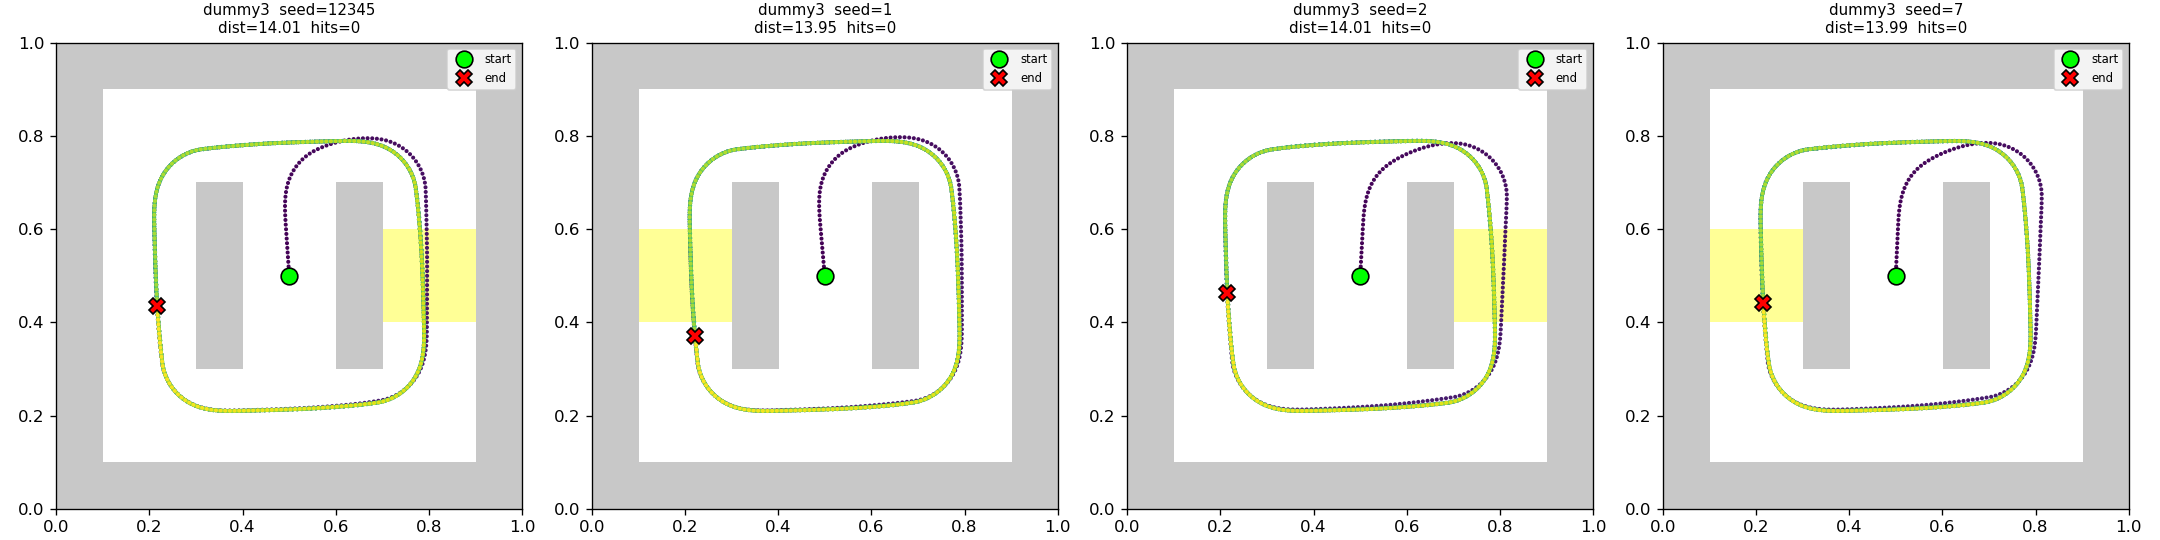
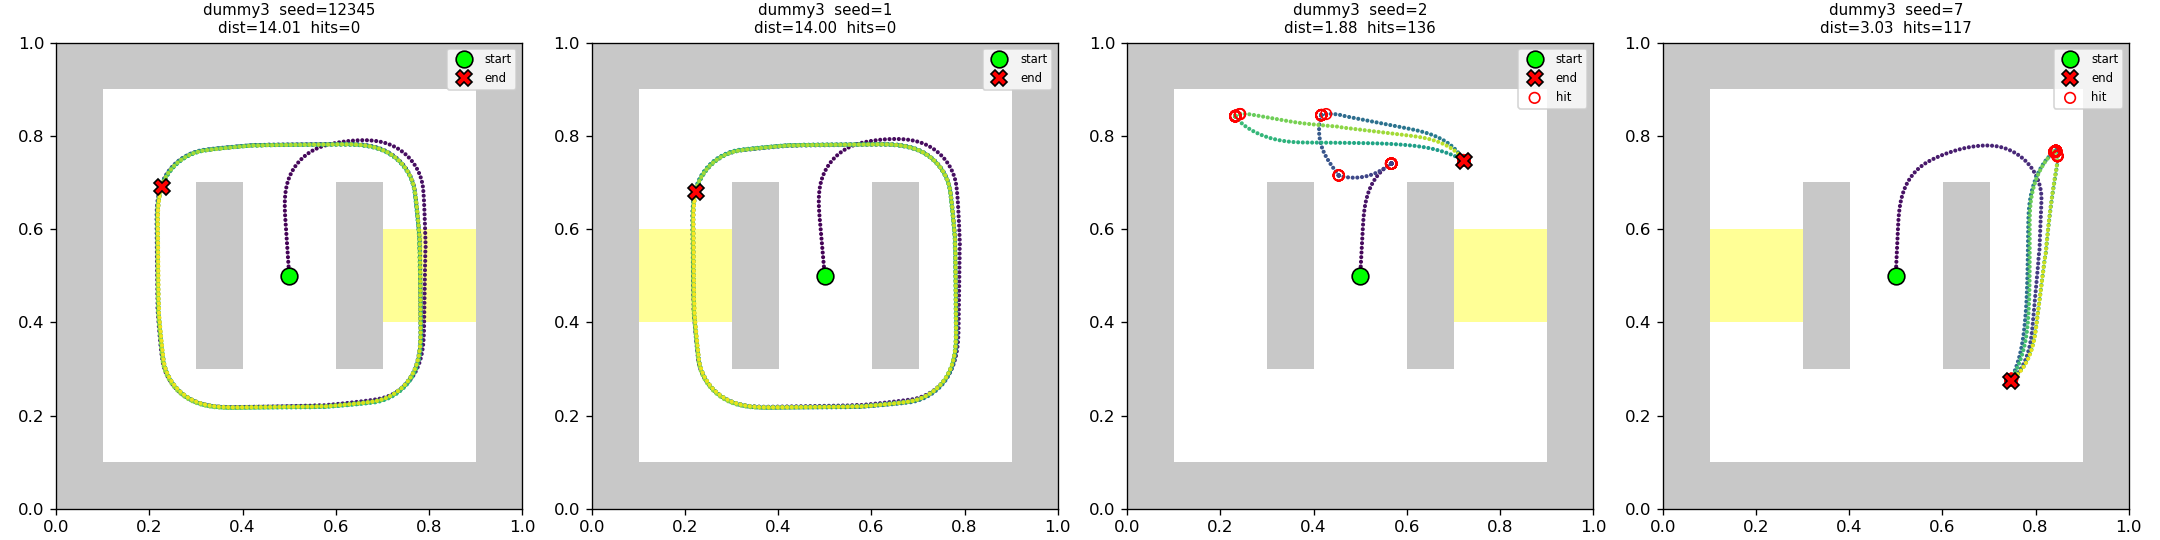
Add visualization helper

diff --git a/braincraft/env1_trajectory_variable_plot.py b/braincraft/env1_trajectory_variable_plot.py
@@ -1,0 +1,234 @@
+"""Visualize an env1 player trajectory together with a per-step variable.
+
+Like env1_trajectory_plot.py, but in addition to drawing the bot's path on
+the world map it records the value of a user-specified expression at every
+step and plots it as a time series next to the map. The trajectory dots are
+also recolored by that variable, so spatial and temporal structure can be
+read together.
+
+Examples
+--------
+    python env1_trajectory_variable_plot.py
+    python env1_trajectory_variable_plot.py --var "prox[11]"
+    python env1_trajectory_variable_plot.py --var "X[8,0]" --var-label is_rewarded
+    python env1_trajectory_variable_plot.py --models dummy3 --seeds 12345 1
+"""
+
+import argparse
+import importlib
+import inspect
+
+import numpy as np
+if not hasattr(np, "atan2"):
+    np.atan2 = np.arctan2  # compat shim for older NumPy used by camera.py
+import matplotlib.pyplot as plt
+
+from bot import Bot
+from environment_1 import Environment
+
+from env1_trajectory_plot import PLAYERS, load_model
+
+
+DEFAULT_MODELS = ["dummy3"]
+DEFAULT_SEEDS = [12345, 1, 2, 7]
+DEFAULT_VAR = "prox[63]-prox[0]"  # prox[left_side_idx] in dummy3
+
+
+def run_trajectory_with_var(player_key, var_expr, seed=12345, max_steps=None):
+    """Replay the player and record `var_expr` each step.
+
+    The expression is eval'd in a namespace exposing:
+        prox  -- 1 - bot.camera.depths  (length n)
+        I     -- raw input vector ((n+3, 1))
+        X     -- reservoir state ((N, 1))
+        O     -- output vector
+        bot   -- the Bot instance
+        np    -- numpy
+    """
+    np.random.seed(seed)
+    environment = Environment()
+    bot = Bot()
+
+    W_in, W, W_out, warmup, leak, f, g = load_model(player_key)
+
+    n = bot.camera.resolution
+    I = np.zeros((n + 3, 1))
+    X = np.zeros((W.shape[0], 1))
+
+    bot.camera.update(bot.position, bot.direction,
+                      environment.world, environment.colormap)
+
+    code = compile(var_expr, "<var>", "eval")
+
+    def eval_var(O):
+        ns = {
+            "prox": I[:n, 0],
+            "I": I,
+            "X": X,
+            "O": O,
+            "bot": bot,
+            "np": np,
+        }
+        return float(np.asarray(eval(code, ns)).reshape(-1)[0])
+
+    positions = [bot.position]
+    var_values = []
+    hits_steps = []
+    iteration = 0
+    distance = 0.0
+
+    while bot.energy > 0:
+        I[:n, 0] = 1 - bot.camera.depths
+        I[n:, 0] = bot.hit, bot.energy, 1.0
+        X = (1 - leak) * X + leak * f(np.dot(W_in, I) + np.dot(W, X))
+        O = np.dot(W_out, g(X))
+
+        var_values.append(eval_var(O))
+
+        if iteration > warmup:
+            p = bot.position
+            bot.forward(O, environment, debug=False)
+            distance += np.linalg.norm(np.array(p) - np.array(bot.position))
+            if bot.hit:
+                hits_steps.append(len(positions))
+        positions.append(bot.position)
+        iteration += 1
+        if max_steps is not None and iteration >= max_steps:
+            break
+
+    # positions has one more entry than var_values (initial pose). Align by
+    # dropping the initial pose for the per-step coloring/series.
+    return {
+        "positions": np.array(positions),
+        "var": np.array(var_values),
+        "hits": np.array(hits_steps, dtype=int),
+        "distance": distance,
+        "world_rgb": environment.world_rgb,
+        "world": environment.world,
+    }
+
+
+def plot_trajectory_with_var(traj, var_label, ax_map, ax_ts, title=None):
+    world = traj["world"]
+    extent = [0, world.shape[1] / max(world.shape),
+              0, world.shape[0] / max(world.shape)]
+    ax_map.imshow(traj["world_rgb"], origin="lower", extent=extent,
+                  interpolation="nearest")
+
+    P = traj["positions"]
+    V = traj["var"]
+    # Color the per-step positions by the variable. Skip the initial pose so
+    # P_step and V align.
+    P_step = P[1:1 + len(V)]
+    sc = ax_map.scatter(P_step[:, 0], P_step[:, 1], c=V, cmap="coolwarm",
+                        s=4, zorder=10)
+    ax_map.plot(P[0, 0], P[0, 1], "o", color="lime", markersize=10,
+                markeredgecolor="black", label="start", zorder=20)
+    ax_map.plot(P[-1, 0], P[-1, 1], "X", color="red", markersize=10,
+                markeredgecolor="black", label="end", zorder=20)
+    if len(traj["hits"]):
+        H = P[traj["hits"]]
+        ax_map.scatter(H[:, 0], H[:, 1], facecolor="none", edgecolor="red",
+                       s=40, linewidth=1.0, label="hit", zorder=15)
+    ax_map.set_xlim(0, 1)
+    ax_map.set_ylim(0, 1)
+    ax_map.set_aspect("equal")
+    ax_map.legend(loc="upper right", fontsize=7)
+    if title:
+        ax_map.set_title(title, fontsize=9)
+
+    cbar = plt.colorbar(sc, ax=ax_map, fraction=0.046, pad=0.04)
+    cbar.set_label(var_label, fontsize=8)
+    cbar.ax.tick_params(labelsize=7)
+
+    # Time series
+    ax_ts.plot(V, color="C0", linewidth=1.0)
+    if len(traj["hits"]):
+        for h in traj["hits"]:
+            ax_ts.axvline(h - 1, color="red", alpha=0.3, linewidth=0.6)
+    ax_ts.set_xlabel("step", fontsize=8)
+    ax_ts.set_ylabel(var_label, fontsize=8)
+    ax_ts.tick_params(labelsize=7)
+    ax_ts.grid(True, alpha=0.3)
+
+
+def plot_models(player_keys, seeds, var_expr, var_label,
+                max_steps=None, save_path=None, show=True):
+    n_rows = len(player_keys) * len(seeds)
+    fig, axes = plt.subplots(
+        n_rows, 2,
+        figsize=(11, 4.5 * n_rows),
+        squeeze=False,
+        gridspec_kw={"width_ratios": [1.0, 1.2]},
+    )
+
+    row = 0
+    for key in player_keys:
+        for seed in seeds:
+            ax_map, ax_ts = axes[row]
+            try:
+                traj = run_trajectory_with_var(
+                    key, var_expr, seed=seed, max_steps=max_steps)
+                plot_trajectory_with_var(
+                    traj, var_label,
+                    ax_map=ax_map, ax_ts=ax_ts,
+                    title=f"{key}  seed={seed}\n"
+                          f"dist={traj['distance']:.2f}  "
+                          f"hits={len(traj['hits'])}",
+                )
+                print(f"{key:>20s}  seed={seed}: "
+                      f"distance={traj['distance']:.3f}, "
+                      f"steps={len(traj['positions'])}, "
+                      f"hits={len(traj['hits'])}")
+            except Exception as e:
+                ax_map.set_title(f"{key} seed={seed}\nFAILED: {e}",
+                                 fontsize=8, color="red")
+                ax_map.set_xticks([]); ax_map.set_yticks([])
+                ax_ts.set_xticks([]); ax_ts.set_yticks([])
+                print(f"{key} seed={seed}: FAILED -> {e}")
+            row += 1
+
+    plt.tight_layout()
+    if save_path:
+        plt.savefig(save_path, dpi=120)
+        print(f"Saved {save_path}")
+    if show:
+        plt.show()
+    return fig
+
+
+def parse_args():
+    parser = argparse.ArgumentParser(
+        description="Plot env1 trajectories alongside a per-step variable.")
+    parser.add_argument("--models", nargs="+", default=DEFAULT_MODELS,
+                        help=f"Player keys. Choices: {sorted(PLAYERS)}")
+    parser.add_argument("--seeds", nargs="+", type=int, default=DEFAULT_SEEDS)
+    parser.add_argument("--var", default=DEFAULT_VAR,
+                        help="Python expression evaluated each step. "
+                             "Namespace: prox, I, X, O, bot, np. "
+                             f"Default: {DEFAULT_VAR!r}")
+    parser.add_argument("--var-label", default=None,
+                        help="Label shown on the colorbar / y-axis. "
+                             "Defaults to the expression.")
+    parser.add_argument("--max-steps", type=int, default=None)
+    parser.add_argument("--save", default=None)
+    parser.add_argument("--no-show", action="store_true")
+    return parser.parse_args()
+
+
+if __name__ == "__main__":
+    args = parse_args()
+    models = sorted(PLAYERS) if args.models == ["all"] else args.models
+    label = args.var_label or args.var
+    safe_var = "".join(c if c.isalnum() else "_" for c in args.var).strip("_")
+    save_path = (args.save or
+                 f"trajectory_var_{safe_var}_{'_'.join(models)}.png")
+    plot_models(
+        player_keys=models,
+        seeds=args.seeds,
+        var_expr=args.var,
+        var_label=label,
+        max_steps=args.max_steps,
+        save_path=save_path,
+        show=not args.no_show,
+    )

diff --git a/braincraft/env1_player_dummy3.py b/braincraft/env1_player_dummy3.py
@@ -138,8 +138,8 @@ def dummy_player():
     # driving an extra right turn that lets the bot peel off into the
     # inner corridor and run only half of the outer ring.
     # ------------------------------------------------------------------
-    K9 = 2.0
-    margin = 0.3
+    K9 = 3.0
+    margin = 0.12
     G8 = 10.0
     Win[9, left_side_idx]  =  K9
     Win[9, right_side_idx] = -K9
@@ -160,14 +160,14 @@ def dummy_player():
     # Safety term is safety_gain_left*relu_tanh(X3 - safety_target) + safety_gain_right*relu_tanh(X4 - safety_target)
     safety_gain_left = np.radians(-20.0)
     safety_gain_right= -safety_gain_left
-    safety_target = 0.7
+    safety_target = 0.68
     Win[3, bias_idx] = -safety_target
     Win[4, bias_idx] = -safety_target
     # Front-block gate: strong right turn once activated; saturates easily.
     front_gain = np.radians(-20.0)
     # Post-reward shortcut: extra right turn once X8 has latched and the
     # right side opens up while the left wall is still present.
-    post_reward_gain = 5.0 * front_gain
+    post_reward_gain = 1.0 * front_gain
     # heading_gain += post_reward_gain
 
     # O = hit_turn*X0
